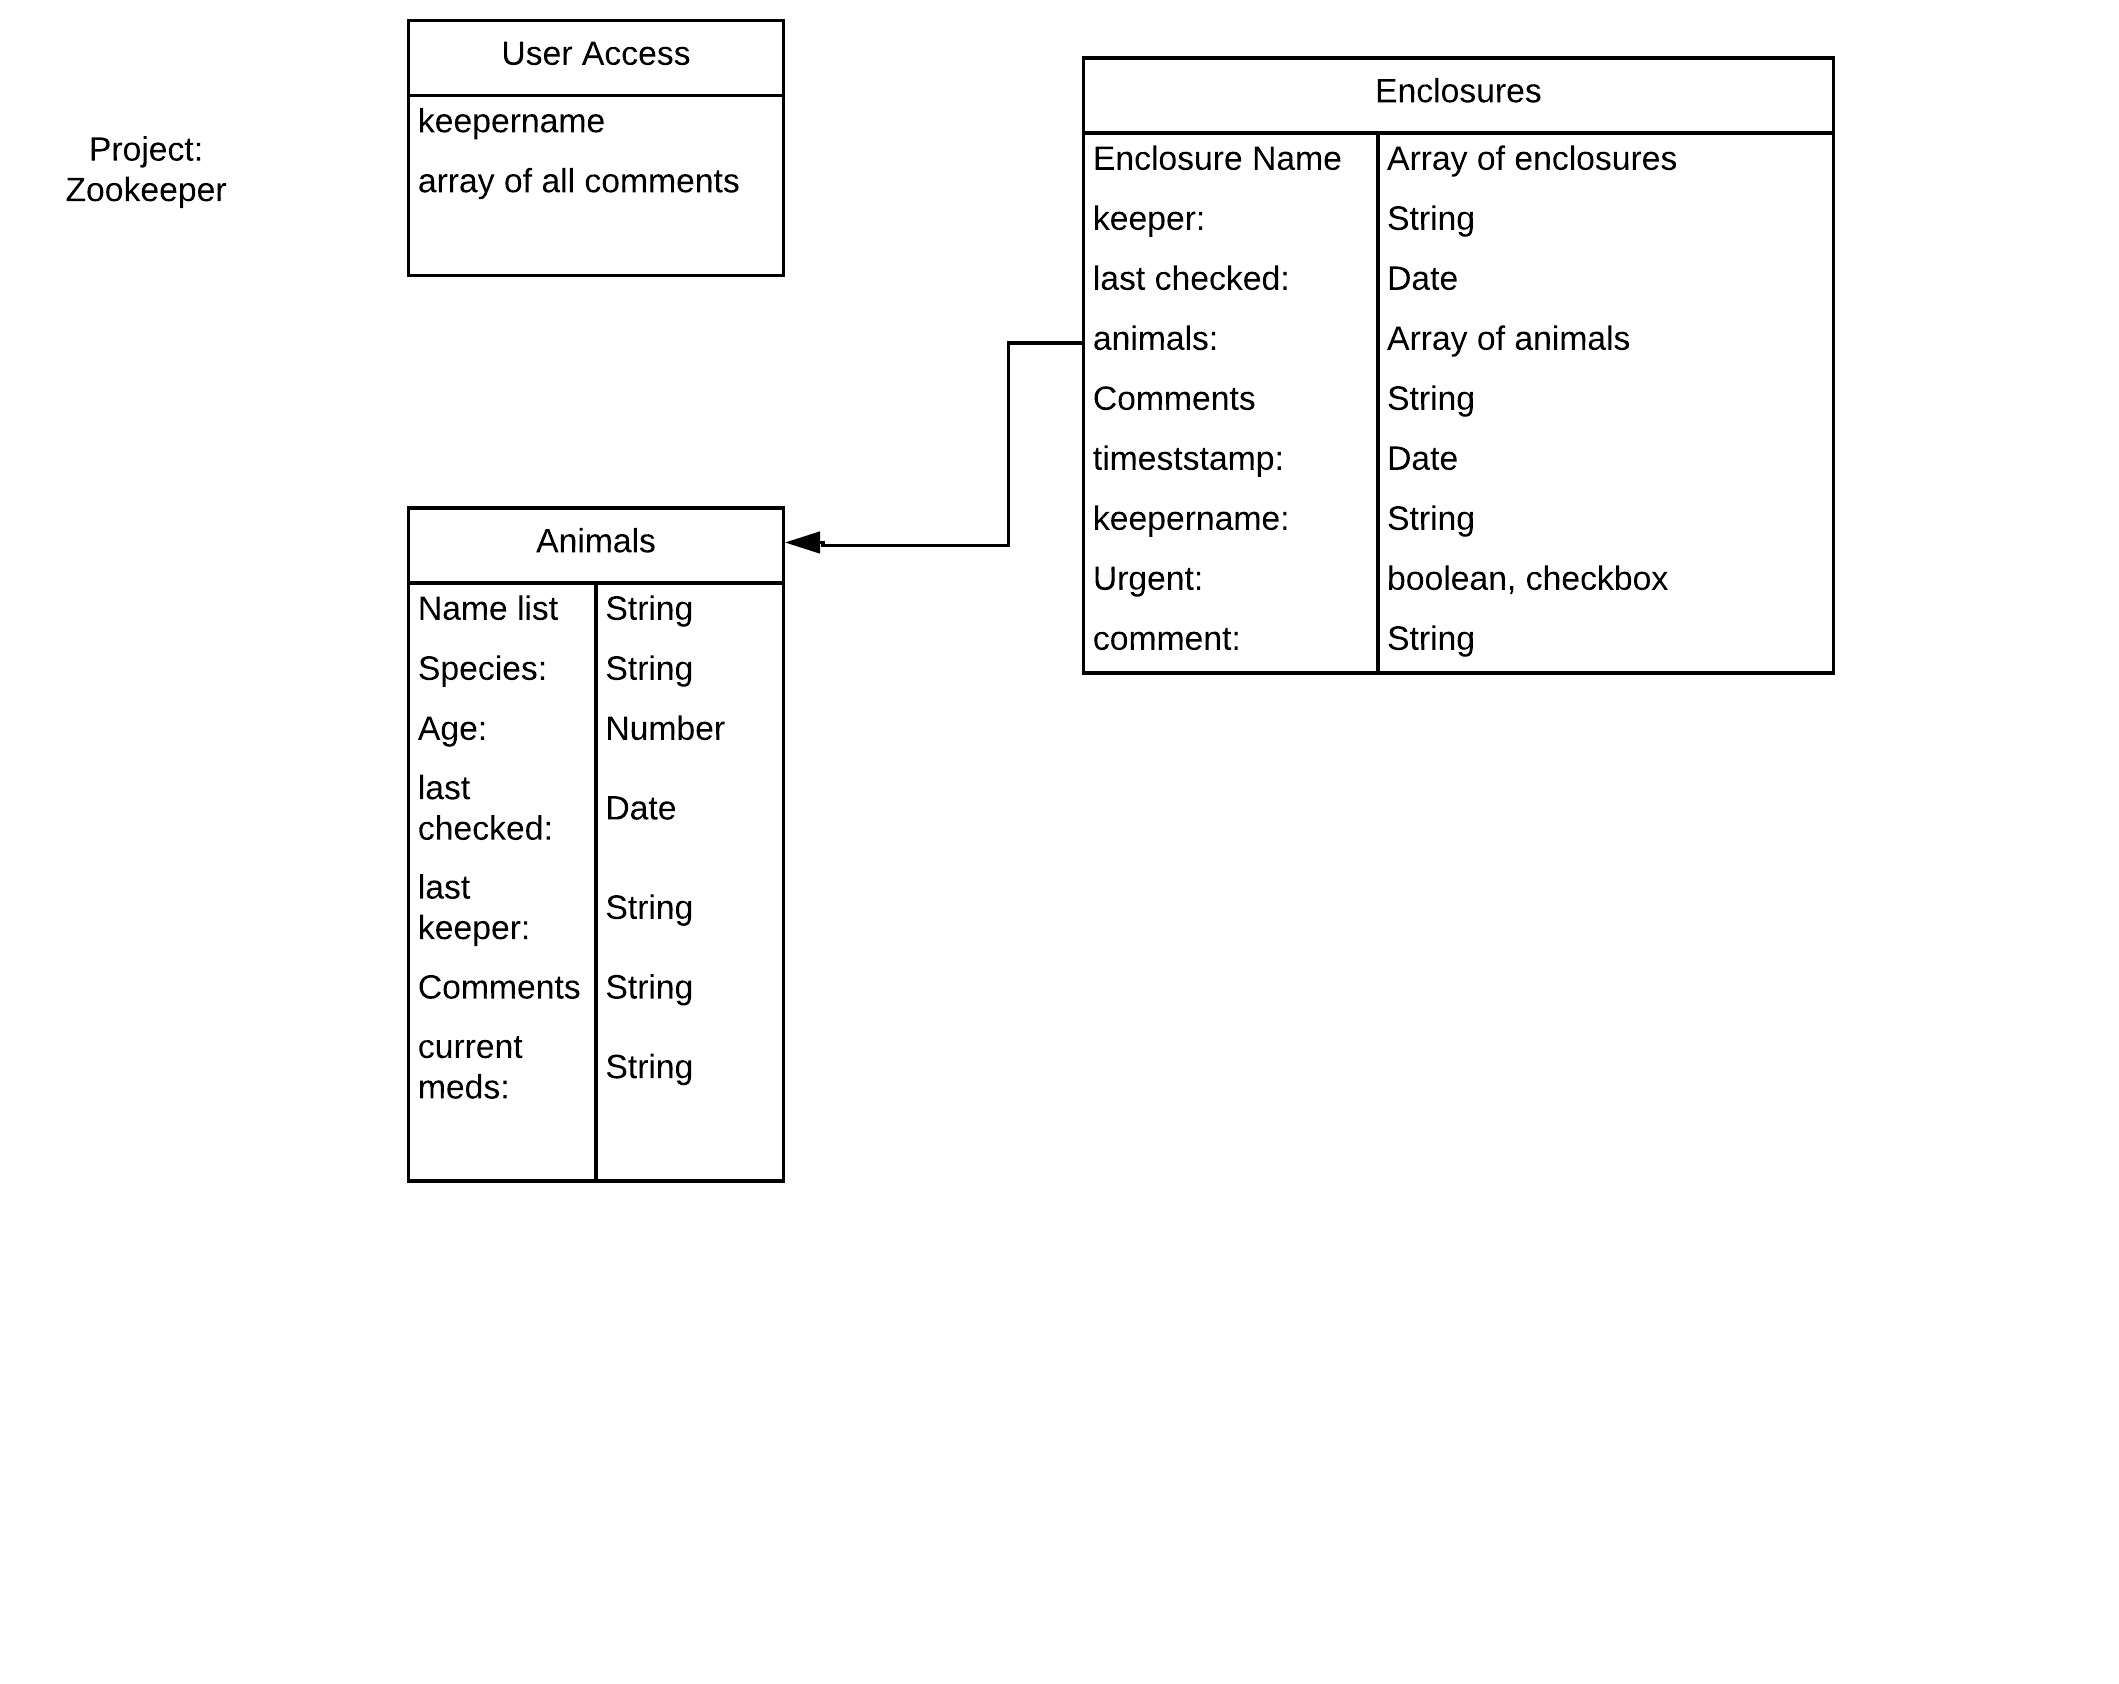
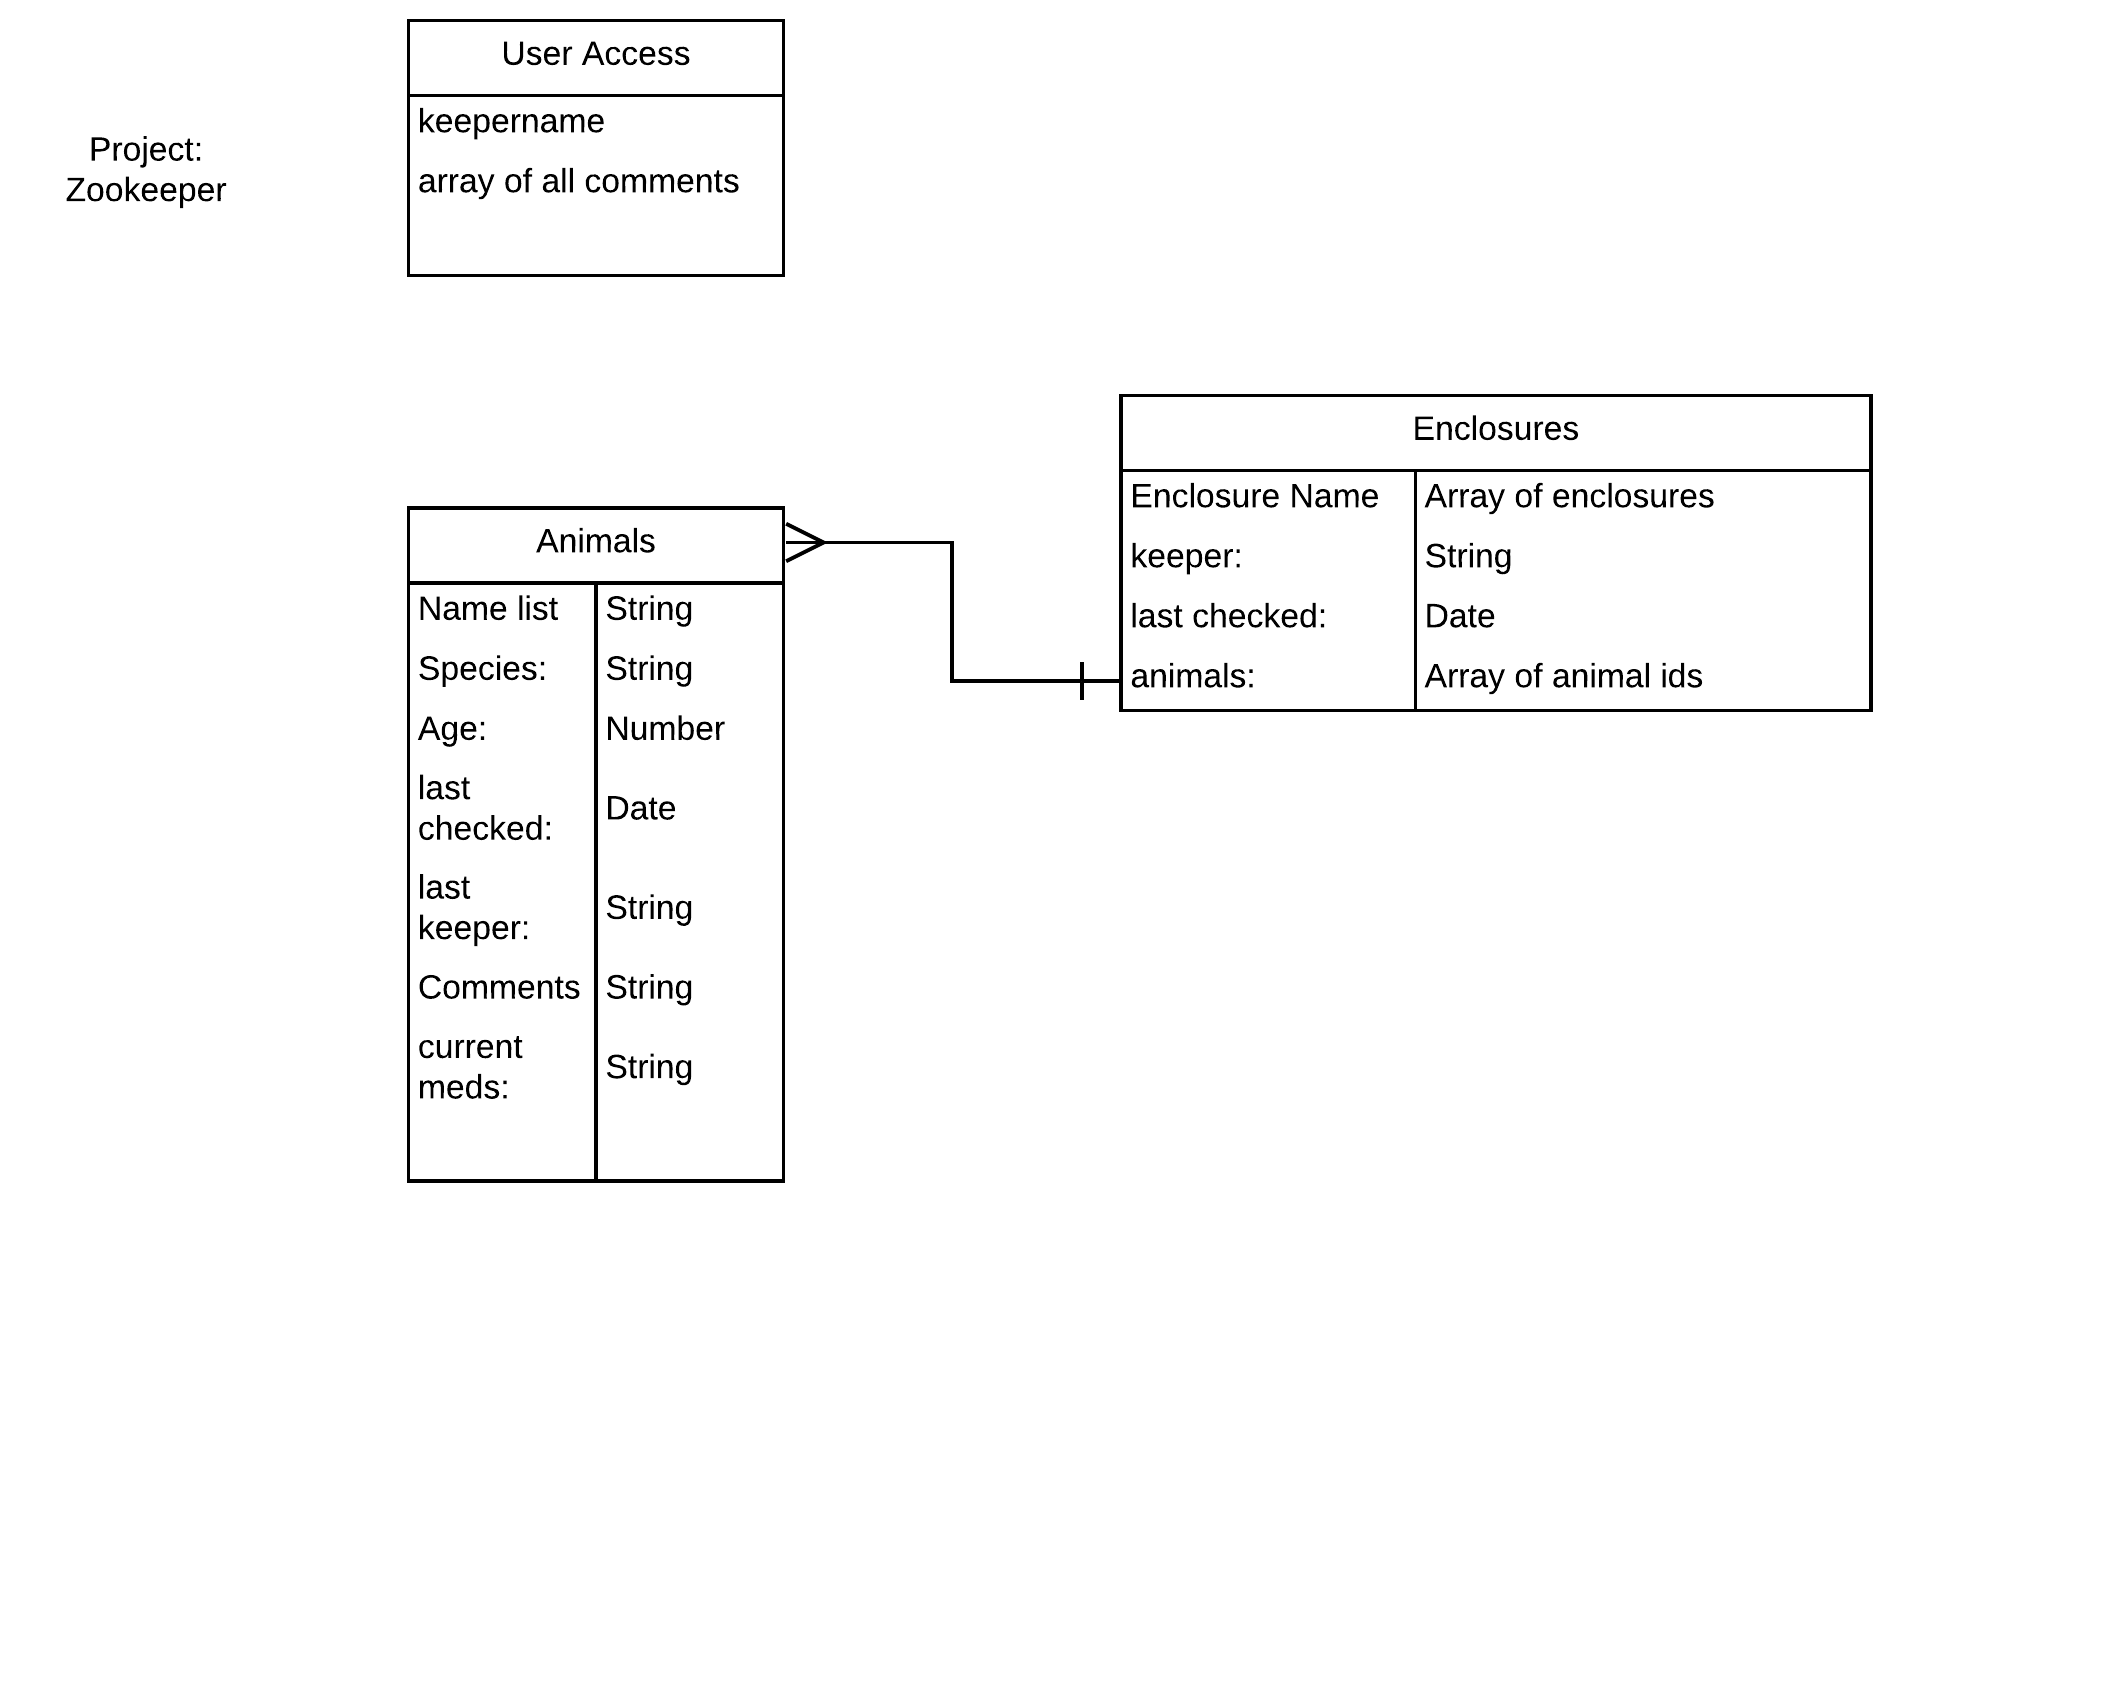
final erd, updated readme, updated enclosure selection in animal ejs, controller post needs update

diff --git a/readme.md b/readme.md
@@ -36,13 +36,13 @@ Similarly, ANIMALS will show a clickable list of the animals by type (or enclosu
 
 The models will be organized as such:
 
-![ERD](assets/erdzookeeper.jpeg)
+![ERD](assets/zookeeper.png)
 
 And here's a (very) rough mock-up of what the pages will (possibly) look like:
 
 ![ERD](assets/enclosures.png)
 ![ERD](assets/enclosure_show.png)
-![ERD](assets/zookeeper.png)
+![ERD](assets/animal_show.png)
 
 ### Stretch Goals
 
